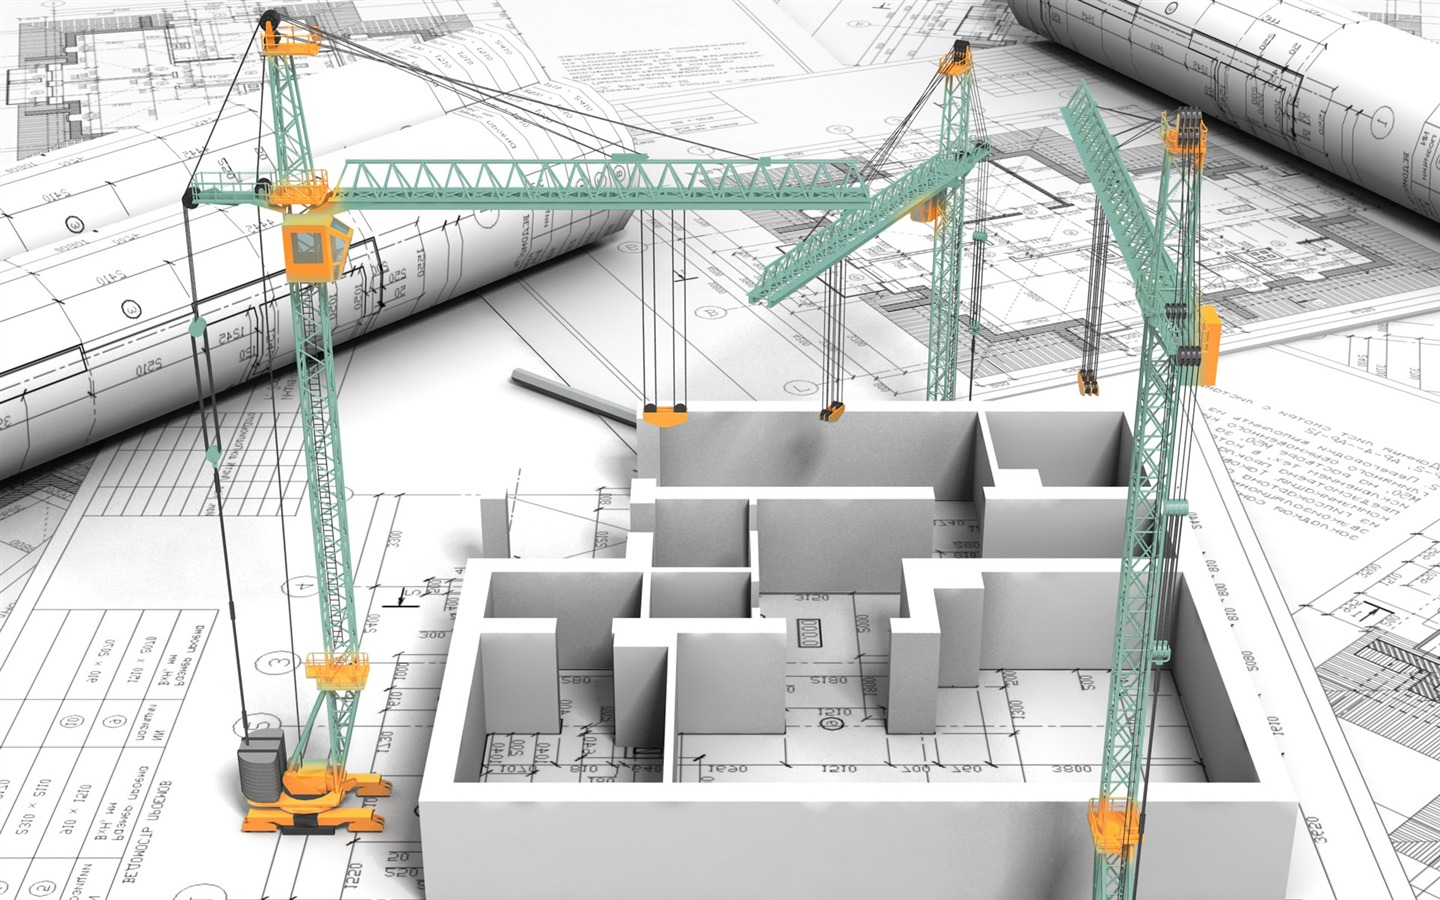
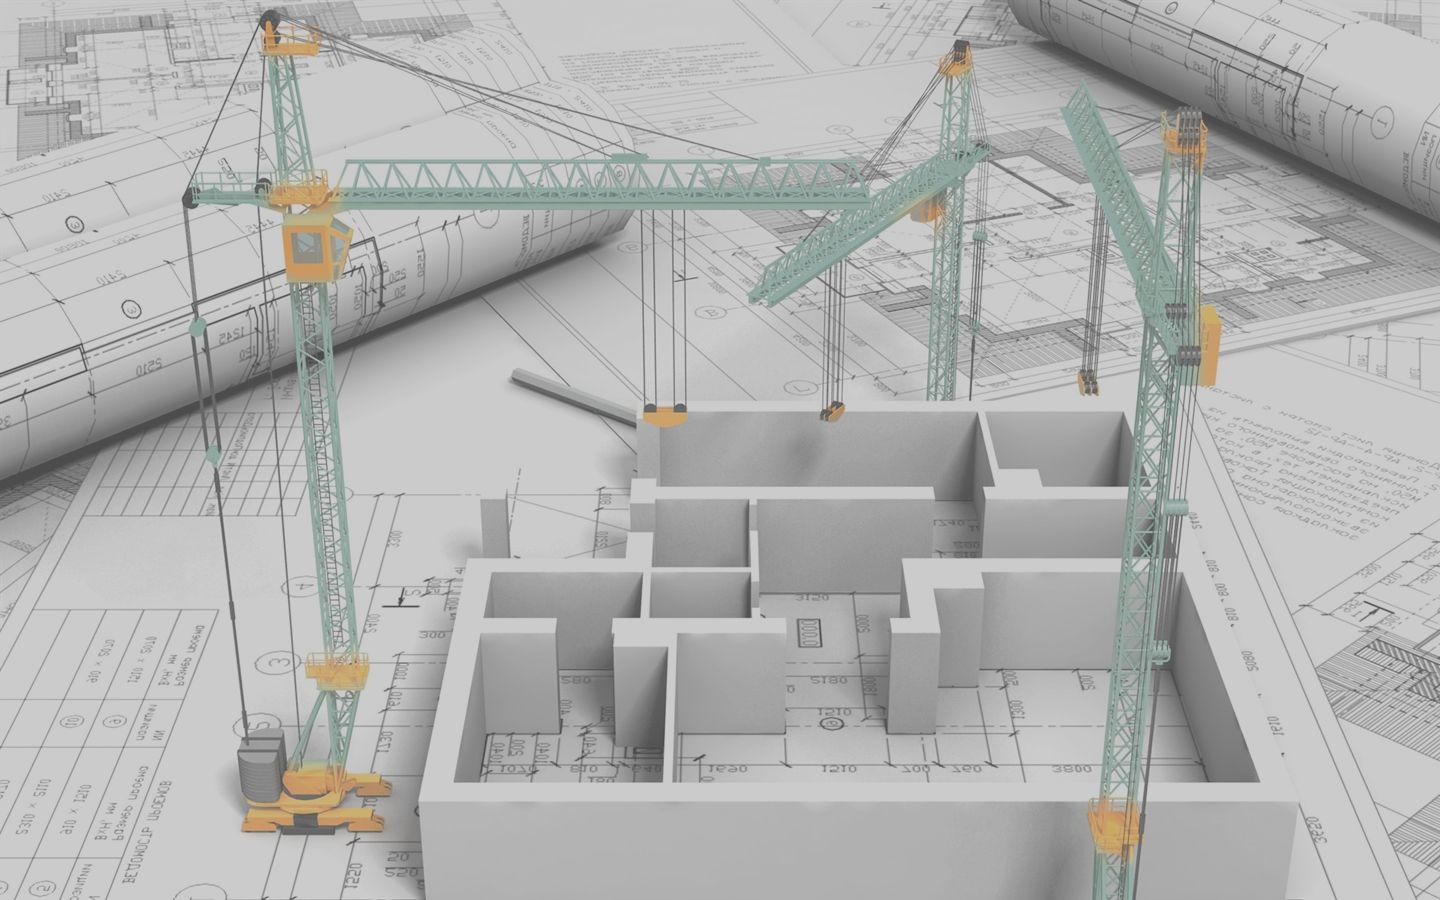
pojedyncze, ciemniejsze tlo

diff --git a/assets/css/style-green.css b/assets/css/style-green.css
@@ -318,11 +318,11 @@ border: 1px solid rgb(57, 171, 111);
 background-color: transparent;
 border: 1px solid rgb(57, 171, 111);
 
-opacity: .80; /* standard: ff gt 1.5, opera, safari */
--ms-filter: "alpha(opacity=80)"; /* ie 8 */
-filter: alpha(opacity=80); /* ie lt 7 */
--khtml-opacity: .80; /* safari 1.x */
--moz-opacity: .80; /* ff lt 1.5, netscape */
+opacity: .60; /* standard: ff gt 1.5, opera, safari */
+-ms-filter: "alpha(opacity=60)"; /* ie 8 */
+filter: alpha(opacity=60); /* ie lt 7 */
+-khtml-opacity: .60; /* safari 1.x */
+-moz-opacity: .60; /* ff lt 1.5, netscape */
 
 }
 
